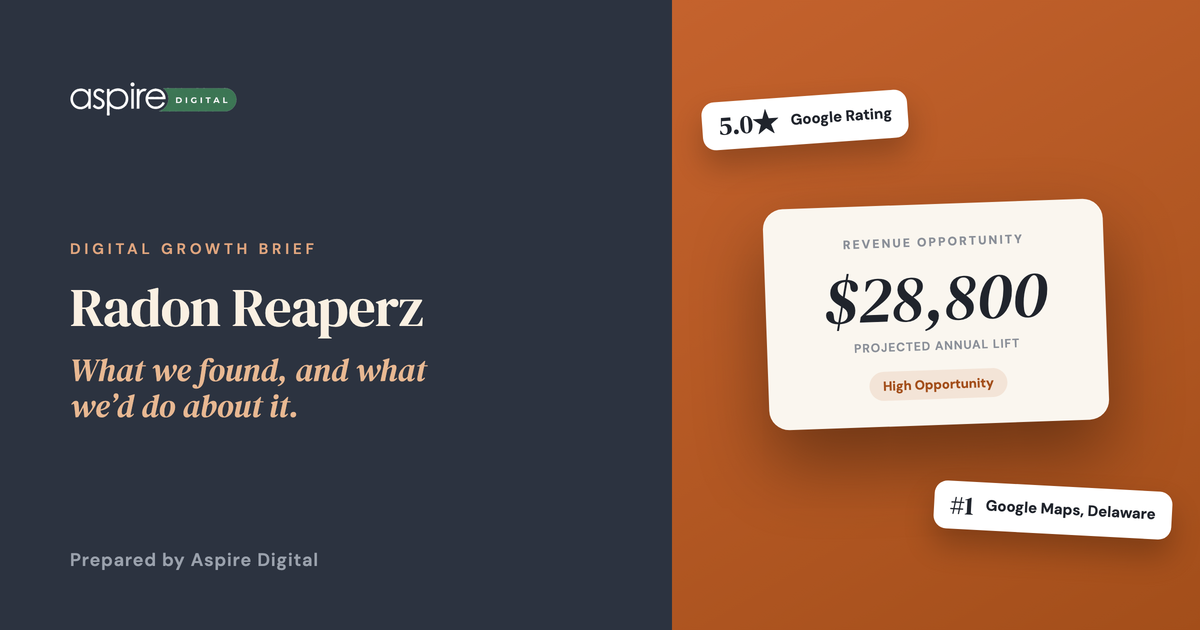
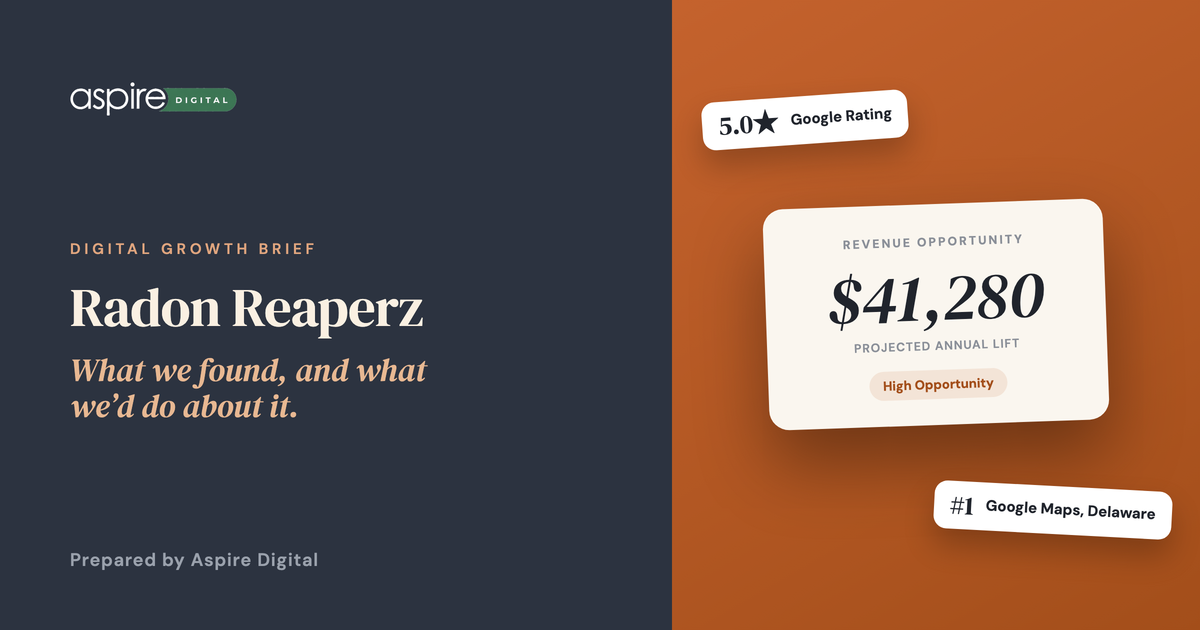
Radon Reaperz brief v2: every SEO and search figure from Strat's PROSPECT pull (CLI-535)
Hook corrected (5.0 across 367 reviews, 366 five-star), organic not in top 29,
Maps missing in 6/6 searches outside Delaware, Claude review-gap hook dropped,
Radon Systems replaces Ohio Radon Mitigation, revenue input 860 -> $41,280/yr.

Changed region(s): [[0.6783, 0.4222, 0.8942, 0.5127]]

diff --git a/radon-reaperz/welcome/index.html b/radon-reaperz/welcome/index.html
@@ -907,7 +907,7 @@ img{max-width:100%;display:block;}
       <h1 class="hero__h1">Central Ohio's best-reviewed radon team, hiding in plain sight.</h1>
     </div>
     <div class="hero__text">
-      <p class="hero__sub">You have 367 five-star Google reviews, more than any radon company we found around Columbus, yet radonreaperz.com doesn't appear in Google's top 18 results for "radon mitigation Columbus Ohio", and when we asked Claude for Radon Reaperz reviews, it couldn't find a single one.</p>
+      <p class="hero__sub">You have a 5.0 Google rating across 367 reviews, more than any radon company we found around Columbus, yet radonreaperz.com doesn't appear in Google's top 29 results for "radon mitigation Columbus Ohio", and outside Delaware you didn't show up on Google Maps in any of the six searches we ran.</p>
       <dl class="hero__meta">
         <div class="hero__meta-item"><dt>Business</dt><dd class="fill">Radon Reaperz</dd></div>
         <div class="hero__meta-item"><dt>Date</dt><dd>October 6, 2026</dd></div>
@@ -916,7 +916,7 @@ img{max-width:100%;display:block;}
     </div>
     <div class="hero__opp-card">
       <p class="hero__opp-label">Revenue Opportunity</p>
-      <p class="hero__opp-num">$28,800</p>
+      <p class="hero__opp-num">$41,280</p>
       <p class="hero__opp-denom">projected annual lift</p>
       <span class="hero__opp-badge hero__opp-badge--high">High Opportunity</span>
       <p class="hero__opp-desc">Your reputation is already built. The website just needs to start catching the Columbus searches it misses today.</p>
@@ -951,7 +951,7 @@ img{max-width:100%;display:block;}
       <div class="quick-summary__item">
         <p class="quick-summary__label">What They've Built</p>
         <ul class="quick-summary__list">
-          <li>A perfect 5.0 on Google across 367 reviews, with new ones still arriving every week.</li>
+          <li>A perfect 5.0 on Google across 367 reviews, with 16 new ones in the last 90 days.</li>
           <li>Results customers brag about: "getting our radon level down from 38 to 2.4 was great" (Ceasare V., a week ago).</li>
           <li>Work well beyond single homes: new builds, apartment complexes and corporate compliance.</li>
         </ul>
@@ -959,7 +959,7 @@ img{max-width:100%;display:block;}
       <div class="quick-summary__item">
         <p class="quick-summary__label">How They Show Up</p>
         <ul class="quick-summary__list">
-          <li>Number one in Google Maps around Delaware for "radon mitigation" and "radon testing near me".</li>
+          <li>Number one on Google Maps in Delaware for all four radon searches we ran there, and missing from the map in Columbus, Powell, Dublin, Westerville and Lewis Center.</li>
           <li>A 7-page Wix site from 2021 that loads quickly but reads like a radon textbook.</li>
           <li>No way to book online: the "Get In Touch" button opens an email, and the phone number can't be tapped.</li>
         </ul>
@@ -972,7 +972,7 @@ img{max-width:100%;display:block;}
       <div class="score-card">
         <div class="score-card__label">Google Rating</div>
         <div class="score-card__value">5.0 ★</div>
-        <div class="score-card__note">367 reviews, the most of any radon company in Columbus-area results</div>
+        <div class="score-card__note">367 reviews (366 of them five-star), the most of any radon company in Columbus-area results</div>
       </div>
       <div class="score-card">
         <div class="score-card__label">Google Maps, Delaware</div>
@@ -1018,7 +1018,7 @@ img{max-width:100%;display:block;}
       <div class="score-card">
         <div class="score-card__label">Performance</div>
         <div class="score-card__value score-card__value--word">Fair</div>
-        <div class="score-card__note">Real visitors see the page in about 2.0 seconds (Google field data). Google's mobile lab test scores 81 of 100, held back by a 2.1 MB page.</div>
+        <div class="score-card__note">Real visitors see the page in about 2.0 seconds (Google field data). Google's mobile lab test scores 78 of 100, held back by a 2.1 MB page.</div>
       </div>
       <div class="score-card">
         <div class="score-card__label">Accessibility</div>
@@ -1072,7 +1072,7 @@ img{max-width:100%;display:block;}
         <span class="win-card__ico">✓</span>
         <div class="win-card__body">
           <strong class="win-card__label">A reputation nobody nearby can match</strong>
-          <p class="win-card__desc">367 five-star Google reviews. The next closest radon company in the Columbus results we checked has 295.</p>
+          <p class="win-card__desc">A 5.0 rating across 367 Google reviews. The next closest radon company in the Columbus results we checked has 295.</p>
         </div>
       </div>
       <div class="win-card">
@@ -1086,7 +1086,7 @@ img{max-width:100%;display:block;}
         <span class="win-card__ico">✓</span>
         <div class="win-card__body">
           <strong class="win-card__label">A fast, accessible site</strong>
-          <p class="win-card__desc">Faster on phones than all three competitors we tested, and a perfect automated accessibility score.</p>
+          <p class="win-card__desc">Real visitors see your homepage in about 2 seconds, it beats Radon Be Gone and Aadvanced Aair on Google's phone speed test, and it earns a perfect automated accessibility score.</p>
         </div>
       </div>
       <div class="win-card">
@@ -1105,7 +1105,7 @@ img{max-width:100%;display:block;}
         <span class="gap-card__ico">!</span>
         <div class="gap-card__body">
           <strong class="gap-card__label">Invisible on Google outside Delaware</strong>
-          <p class="gap-card__desc">For "radon mitigation Columbus Ohio" (about 210 searches a month), your website isn't in Google's top 18 results and you're not in the map pack. Those calls go to Radon Be Gone, Radon Systems and others.</p>
+          <p class="gap-card__desc">For "radon mitigation Columbus Ohio" (about 390 searches a month, a count Google shares with "radon testing columbus ohio"), your website isn't in Google's top 29 results and you're not in the map pack. Searched from Powell, Dublin, Westerville or Lewis Center, you don't show on Google Maps either. Those calls go to Radon Be Gone, Radon Systems, Aadvanced Aair and others.</p>
         </div>
       </div>
       <div class="gap-card">
@@ -1119,7 +1119,7 @@ img{max-width:100%;display:block;}
         <span class="gap-card__ico">!</span>
         <div class="gap-card__body">
           <strong class="gap-card__label">Your best proof is off the site</strong>
-          <p class="gap-card__desc">367 glowing reviews and real before-and-after readings live on Google only. Your site doesn't show a single one, or your Ohio license number.</p>
+          <p class="gap-card__desc">367 reviews and real before-and-after readings live on Google only. Your site doesn't show a single one, or your Ohio license number.</p>
         </div>
       </div>
     </div>
@@ -1154,39 +1154,39 @@ img{max-width:100%;display:block;}
           <span class="compare-table__col-context">Columbus · #1 on Google for Columbus</span>
         </div>
         <div class="compare-table__col-head">
-          Ohio Radon Mitigation
-          <span class="compare-table__col-context">Alexandria · online test requests</span>
+          Radon Systems
+          <span class="compare-table__col-context">Columbus area · #1 in the Columbus map pack</span>
         </div>
       </div>
       <div class="compare-table__row">
         <div class="compare-table__label">Website</div>
         <div class="compare-table__cell compare-table__cell--you compare-table__cell--mid">7 pages, no testing page</div>
         <div class="compare-table__cell compare-table__cell--good">Separate testing, mitigation and service-area pages</div>
-        <div class="compare-table__cell compare-table__cell--good">Request-a-test and quote pages</div>
+        <div class="compare-table__cell compare-table__cell--good">Testing and mitigation pages, plus town pages for Powell, Dublin, Westerville, Lewis Center and more</div>
       </div>
       <div class="compare-table__row">
         <div class="compare-table__label">Online booking</div>
         <div class="compare-table__cell compare-table__cell--you compare-table__cell--low">Email link only</div>
         <div class="compare-table__cell compare-table__cell--mid">Phone and contact page</div>
-        <div class="compare-table__cell compare-table__cell--good">Online request form</div>
+        <div class="compare-table__cell compare-table__cell--good">Free-estimate form on the homepage</div>
       </div>
       <div class="compare-table__row">
         <div class="compare-table__label">Ohio license # shown</div>
         <div class="compare-table__cell compare-table__cell--you compare-table__cell--low">Not shown</div>
         <div class="compare-table__cell compare-table__cell--good">RC174 on homepage</div>
-        <div class="compare-table__cell compare-table__cell--good">RC#181 on homepage</div>
+        <div class="compare-table__cell compare-table__cell--good">RC260 on homepage</div>
       </div>
       <div class="compare-table__row">
         <div class="compare-table__label">Google reviews</div>
         <div class="compare-table__cell compare-table__cell--you compare-table__cell--good">5.0 ★ · 367</div>
         <div class="compare-table__cell compare-table__cell--mid">4.8 ★ · 237</div>
-        <div class="compare-table__cell compare-table__cell--mid">5.0 ★ · 225</div>
+        <div class="compare-table__cell compare-table__cell--mid">4.9 ★ · 295</div>
       </div>
       <div class="compare-table__row">
         <div class="compare-table__label">Phone speed score</div>
-        <div class="compare-table__cell compare-table__cell--you compare-table__cell--good">81 / 100</div>
-        <div class="compare-table__cell compare-table__cell--low">52 / 100</div>
-        <div class="compare-table__cell compare-table__cell--low">56 / 100</div>
+        <div class="compare-table__cell compare-table__cell--you compare-table__cell--mid">78 / 100</div>
+        <div class="compare-table__cell compare-table__cell--mid">72 / 100</div>
+        <div class="compare-table__cell compare-table__cell--good">100 / 100</div>
       </div>
     </div></div>
 
@@ -1195,8 +1195,8 @@ img{max-width:100%;display:block;}
         <span class="stack-split__badge">Where You Lead</span>
         <div class="stack-split__stat">
           <p class="stack-split__num">367</p>
-          <p class="stack-split__label">Google reviews, all five stars</p>
-          <p class="stack-split__note">130 more than Radon Be Gone, and still growing weekly.</p>
+          <p class="stack-split__label">Google reviews, a perfect 5.0 average</p>
+          <p class="stack-split__note">130 more than Radon Be Gone, 72 more than Radon Systems, and still growing almost every week.</p>
         </div>
         <div class="stack-split__stat">
           <p class="stack-split__num">#1</p>
@@ -1207,14 +1207,14 @@ img{max-width:100%;display:block;}
       <div class="stack-split__side stack-split__side--gap">
         <span class="stack-split__badge">The Digital Gap</span>
         <div class="stack-split__stat">
-          <p class="stack-split__num">Not in top 18 <span class="stack-split__cmp">vs #1</span></p>
+          <p class="stack-split__num">Not in top 29 <span class="stack-split__cmp">vs #1</span></p>
           <p class="stack-split__label">Google results for "radon mitigation columbus ohio"</p>
           <p class="stack-split__note">Radon Be Gone holds the top spot with a page built for exactly that search.</p>
         </div>
         <div class="stack-split__stat">
           <p class="stack-split__num">Email only <span class="stack-split__cmp">vs online forms</span></p>
           <p class="stack-split__label">Booking a radon test</p>
-          <p class="stack-split__note">Ohio Radon Mitigation gives homeowners a Request a Radon Test page and a Request a Quote page.</p>
+          <p class="stack-split__note">Radon Systems puts a free-estimate form right on its homepage.</p>
         </div>
       </div>
     </div>
@@ -1237,7 +1237,7 @@ img{max-width:100%;display:block;}
     </div>
 
     <div class="prose">
-      <p>Google's own ad data for the Columbus market shows steady, year-round demand for exactly what you do: about 1,000 searches a month for "radon mitigation system", 390 for "radon testing", and 210 each for "radon mitigation columbus ohio" and "radon testing columbus ohio". When people search from Delaware, you win the map. When they search from Columbus, Powell or Dublin, the website has to do the work, and right now it isn't built to. Google's suggestions tell the same story: people type "radon mitigation system cost columbus ohio" and "radon testing in apartments", two things you know cold but your site barely answers.</p>
+      <p>Google Ads search estimates for the Columbus market show steady, year-round demand for exactly what you do: about 390 searches a month for "radon mitigation columbus ohio" (Google counts "radon testing columbus ohio" in that same number), 720 for "radon testing", 590 for "radon mitigation system cost" and 390 for "crawl space encapsulation". When people search from Delaware, you win the map. When they search from Columbus, Powell, Dublin, Westerville or Lewis Center, you don't appear on the map at all, so the website has to do the work, and right now it isn't built to. Google's suggestions tell the same story: people type "radon mitigation system cost columbus ohio" and "radon testing in apartments", two things you know cold but your site barely answers.</p>
     </div>
 
     <h3 class="sub-head">Primary Search Terms</h3>
@@ -1260,23 +1260,23 @@ img{max-width:100%;display:block;}
       </div>
       <div class="kw-row">
         <span class="kw-row__rank">03</span>
-        <span class="kw-row__term">radon mitigation system</span>
-        <div class="kw-row__right"><span class="kw-row__vol">High demand</span><span class="kw-row__tag"><span class="tag tag--medium">Steady Revenue</span></span></div>
+        <span class="kw-row__term">radon mitigation near me</span>
+        <div class="kw-row__right"><span class="kw-row__vol">Steady</span><span class="kw-row__tag"><span class="tag tag--high">Quick Revenue</span></span></div>
       </div>
       <div class="kw-row">
         <span class="kw-row__rank">04</span>
         <span class="kw-row__term">radon testing</span>
-        <div class="kw-row__right"><span class="kw-row__vol">Steady</span><span class="kw-row__tag"><span class="tag tag--medium">Steady Revenue</span></span></div>
+        <div class="kw-row__right"><span class="kw-row__vol">High demand</span><span class="kw-row__tag"><span class="tag tag--medium">Steady Revenue</span></span></div>
       </div>
       <div class="kw-row">
         <span class="kw-row__rank">05</span>
-        <span class="kw-row__term">crawl space encapsulation</span>
-        <div class="kw-row__right"><span class="kw-row__vol">Steady</span><span class="kw-row__tag"><span class="tag tag--easy">Growth Opportunity</span></span></div>
+        <span class="kw-row__term">radon mitigation system cost</span>
+        <div class="kw-row__right"><span class="kw-row__vol">High demand</span><span class="kw-row__tag"><span class="tag tag--easy">Growth Opportunity</span></span></div>
       </div>
       <div class="kw-row">
         <span class="kw-row__rank">06</span>
-        <span class="kw-row__term">radon mitigation cost</span>
-        <div class="kw-row__right"><span class="kw-row__vol">Steady</span><span class="kw-row__tag"><span class="tag tag--easy">Growth Opportunity</span></span></div>
+        <span class="kw-row__term">crawl space encapsulation</span>
+        <div class="kw-row__right"><span class="kw-row__vol">High demand</span><span class="kw-row__tag"><span class="tag tag--easy">Growth Opportunity</span></span></div>
       </div>
     </div>
     </div>
@@ -1295,7 +1295,7 @@ img{max-width:100%;display:block;}
     <h3 class="sub-head">The Seasonal Window</h3>
     <!-- CONDITIONAL: only include if client has a clear seasonal demand pattern. 1–2 sentences max. -->
     <div class="prose">
-      <p>Radon searches climb every winter: "radon mitigation system" hit about 1,600 Columbus searches last November, more than double the 720 of this past summer. January is National Radon Action Month, so a site that's ready by November catches the busiest stretch of the year.</p>
+      <p>Radon searches climb every winter: across the US, searches for "radon mitigation" ran about 1.8 times higher from January to March than in July and August. January is National Radon Action Month, so a site that's ready by November catches the busiest stretch of the year.</p>
     </div>
 
   </div>
@@ -1342,13 +1342,13 @@ img{max-width:100%;display:block;}
       <div class="split-card">
         <div class="split-card__gap">
           <span class="split-card__gap-label">The Gap</span>
-          <h3 class="split-card__gap-title">AI can't find your reviews</h3>
+          <h3 class="split-card__gap-title">AI rarely recommends you</h3>
         </div>
         <div class="split-card__solve">
           <div class="split-card__solve-num">The Fix</div>
           <h3 class="split-card__solve-title">Put your reviews on your site</h3>
           <p class="split-card__solve-copy">We feed your Google reviews onto your own pages and label your rating, address and hours in the code AI tools read first.</p>
-          <div class="split-card__solve-outcome"><span class="split-card__solve-chip">The Win</span><span class="split-card__solve-outcome-text">When someone asks about Radon Reaperz, AI answers with your 367 five-star reviews instead of "I couldn't find any."</span></div>
+          <div class="split-card__solve-outcome"><span class="split-card__solve-chip">The Win</span><span class="split-card__solve-outcome-text">When someone asks AI who to hire, your 5.0 rating across 367 reviews is on your own site for it to find and quote, not only on Google.</span></div>
         </div>
       </div>
       <div class="split-card">
@@ -1378,7 +1378,7 @@ img{max-width:100%;display:block;}
     </div>
     </div>
 
-    <div class="callout"><strong>What we found on October 6, 2026:</strong> we asked Perplexity, Google's Gemini and Claude the same seven questions a Central Ohio homeowner might ask, like "Best radon mitigation company in Delaware, Ohio". You earned 16 of 63 possible points. Claude never mentioned you, and when asked for "Radon Reaperz reviews" it answered, "I couldn't find any reviews for Radon Reaperz." Perplexity's top pick for Delaware was Radon Be Gone, a Columbus company. ChatGPT couldn't be tested that day, so it isn't scored. This is a snapshot, not a permanent ranking, and it's very fixable.</div>
+    <div class="callout"><strong>What we found on October 6, 2026:</strong> we asked Perplexity, Google's Gemini and Claude the same seven questions a Central Ohio homeowner might ask, like "Top-rated radon mitigation near Delaware, Ohio". You earned 16 of 63 possible points. Asked about you by name, all three found your reviews. Asked who to hire, they named you in only 3 of 15 answers, while Radon Systems came up in 9. For Delaware, Claude's first pick was Radon Fix and Gemini pointed to SWAT Environmental; Perplexity listed you, but without recommending you or linking to your site. ChatGPT couldn't be tested that day, so it isn't scored. This is a snapshot, not a permanent ranking, and it's very fixable.</div>
   </div>
 </section>
 
@@ -1426,7 +1426,7 @@ img{max-width:100%;display:block;}
           </div>
           <div class="phase-item">
             <strong class="phase-item__title">A real Radon Testing page</strong>
-            <p class="phase-item__desc">Testing is half your business and about 600 Columbus-area searches a month, but it has no page of its own today. We give it one, plus clear pages for mitigation, crawlspaces and new builds.</p>
+            <p class="phase-item__desc">Testing is one of your two core services, and "radon testing" alone draws about 720 searches a month in the Columbus market, but it has no page of its own today. We give it one, plus clear pages for mitigation, crawlspaces and new builds.</p>
           </div>
           <div class="phase-item">
             <strong class="phase-item__title">Your reviews and proof, front and center</strong>
@@ -1448,7 +1448,7 @@ img{max-width:100%;display:block;}
         <div class="phase-items">
           <div class="phase-item">
             <strong class="phase-item__title">Win the winter rush, then keep climbing</strong>
-            <p class="phase-item__desc">Monthly radon answers homeowners actually ask (cost, apartments, buying a home), a recheck of where AI tools mention you, and a push before November when searches double.</p>
+            <p class="phase-item__desc">Monthly radon answers homeowners actually ask (cost, apartments, buying a home), a recheck of where AI tools mention you, and a push before November, when radon searches start their winter climb.</p>
           </div>
         </div>
       </div>
@@ -1504,7 +1504,7 @@ img{max-width:100%;display:block;}
       <div class="beyond-item">
         <span class="beyond-item__ico"><span class="material-symbols-outlined">storefront</span></span>
         <div class="beyond-item__label">Google Business Profile</div>
-        <p class="beyond-item__move">Your profile already has 57 photos and the veteran-owned badge; we'd add a booking link, list each service with plain descriptions, and post your before-and-after readings weekly.</p>
+        <p class="beyond-item__move">Your profile already has 57 photos and the veteran-owned badge; we'd reply to every review (none of your 20 newest have a reply yet), add a booking link, list each service with plain descriptions, and post your before-and-after readings weekly.</p>
         <p class="beyond-item__win"><span class="beyond-item__win-icon"><span class="material-symbols-outlined">north_east</span></span><span>Stronger signals to show you in the Columbus map pack, not just Delaware's.</span></p>
       </div>
       <div class="beyond-item">
@@ -1523,7 +1523,7 @@ img{max-width:100%;display:block;}
         <span class="beyond-item__ico"><span class="material-symbols-outlined">mail</span></span>
         <div class="beyond-item__label">Email &amp; CRM</div>
         <p class="beyond-item__move">The EPA recommends retesting every two years after mitigation, so we'd set up automatic retest reminders, plus a simple referral program for realtors and home inspectors.</p>
-        <p class="beyond-item__win"><span class="beyond-item__win-icon"><span class="material-symbols-outlined">north_east</span></span><span>Repeat testing work and steady referrals from your 367 happy customers and the people who sell homes.</span></p>
+        <p class="beyond-item__win"><span class="beyond-item__win-icon"><span class="material-symbols-outlined">north_east</span></span><span>Repeat testing work and steady referrals from the customers behind your 367 reviews and the people who sell homes.</span></p>
       </div>
     </div>
   </div>
@@ -1571,7 +1571,7 @@ img{max-width:100%;display:block;}
       <div class="funnel-b__cards">
         <div class="funnel-b__card">
           <div class="funnel-b__card-label">Monthly Searches</div>
-          <div class="funnel-b__card-val">600</div>
+          <div class="funnel-b__card-val">860</div>
           <div class="funnel-b__card-sub">People/month already looking for what you offer</div>
         </div>
         <div class="funnel-b__op">×</div>
@@ -1583,7 +1583,7 @@ img{max-width:100%;display:block;}
         <div class="funnel-b__op">=</div>
         <div class="funnel-b__card">
           <div class="funnel-b__card-label">Site Visitors</div>
-          <div class="funnel-b__card-val">48/mo</div>
+          <div class="funnel-b__card-val">69/mo</div>
           <div class="funnel-b__card-sub">Warm, local visitors ready to book</div>
         </div>
         <div class="funnel-b__op">×</div>
@@ -1601,12 +1601,12 @@ img{max-width:100%;display:block;}
       </div>
       <div class="funnel-b__result">
         <div class="funnel-b__result-item">
-          <div class="funnel-b__result-val">$2,400</div>
+          <div class="funnel-b__result-val">$3,440</div>
           <div class="funnel-b__result-label">Per Month</div>
         </div>
         <div class="funnel-b__result-div"></div>
         <div class="funnel-b__result-item">
-          <div class="funnel-b__result-val">$28,800</div>
+          <div class="funnel-b__result-val">$41,280</div>
           <div class="funnel-b__result-label">Per Year, from search alone</div>
         </div>
       </div>
@@ -1615,8 +1615,8 @@ img{max-width:100%;display:block;}
       <p class="funnel-assumptions__head">Conservative by design. Here's exactly what we assumed</p>
       <div class="funnel-assumptions__grid">
         <div class="funnel-assumptions__item">
-          <span class="funnel-assumptions__val">600</span>
-          <span class="funnel-assumptions__label">monthly Columbus-area searches for radon mitigation and testing (Google Ads data), counting only searches that name the service or the city</span>
+          <span class="funnel-assumptions__val">860</span>
+          <span class="funnel-assumptions__label">monthly Columbus-market searches from people hiring for radon mitigation or testing (Google Ads estimates), with look-alike searches counted once and DIY test kits left out</span>
         </div>
         <div class="funnel-assumptions__item">
           <span class="funnel-assumptions__val">8%</span>
@@ -1631,7 +1631,7 @@ img{max-width:100%;display:block;}
           <span class="funnel-assumptions__label">average job value, near the low end of the $800 to $2,500 range AI search tools quote for a Columbus mitigation system, to allow for lower-priced tests</span>
         </div>
       </div>
-      <p class="funnel-assumptions__footer">Google Maps traffic, referrals, and repeat clients not counted. Those are all extra on top of this. One website. Done right. This is what it pays back.</p>
+      <p class="funnel-assumptions__footer">Google Maps traffic, referrals, repeat clients and about 1,800 more broad radon searches a month not counted. Those are all extra on top of this. One website. Done right. This is what it pays back.</p>
     </div>
   </div>
 </section>
@@ -1649,7 +1649,7 @@ img{max-width:100%;display:block;}
         <p class="sec-head__sub">The gap between where you are and where you could be.</p>
       </div>
     </div>
-    <p class="gap-hook">600 people search for your services every month. Right now, most of them find someone else — because there's no site built to catch them.</p>
+    <p class="gap-hook">860 people search for your services every month. Right now, most of them find someone else — because there's no site built to catch them.</p>
     <div class="gap-metrics gap-metrics--hero">
       <div class="gap-metric">
         <div class="gap-metric__val">{METRIC_NEW_CLIENTS}</div>
@@ -1669,7 +1669,7 @@ img{max-width:100%;display:block;}
     </div>
     <div class="gap-anchor">
       <div class="gap-anchor__label">That adds up to</div>
-      <div class="gap-anchor__num">$28,800</div>
+      <div class="gap-anchor__num">$41,280</div>
       <div class="gap-anchor__period">in new annual revenue — conservative estimate</div>
     </div>
     <div class="gap-bridge">
@@ -1708,7 +1708,7 @@ img{max-width:100%;display:block;}
         </div>
         <div class="range-spectrum__col range-spectrum__col--plan">
           <span class="range-spectrum__tier">Our Plan</span>
-          <span class="range-spectrum__amt">$28,800</span>
+          <span class="range-spectrum__amt">$41,280</span>
         </div>
         <div class="range-spectrum__col range-spectrum__col--ceil">
           <span class="range-spectrum__tier">The Ceiling</span>
@@ -1736,7 +1736,7 @@ img{max-width:100%;display:block;}
     </div>
     <div class="range-callout">
       <div class="range-callout__icon"><svg viewBox="0 0 16 16" fill="none"><path d="M8 2v4l3 3" stroke="currentColor" stroke-width="2" stroke-linecap="round"/><circle cx="8" cy="8" r="6" stroke="currentColor" stroke-width="2"/></svg></div>
-      <p class="range-callout__text"><strong>The year-one plan targets $28,800.</strong> That's the conservative read — and it's still a meaningful gain. The ceiling is {REVENUE_OPTIMISTIC} when everything compounds.</p>
+      <p class="range-callout__text"><strong>The year-one plan targets $41,280.</strong> That's the conservative read — and it's still a meaningful gain. The ceiling is {REVENUE_OPTIMISTIC} when everything compounds.</p>
     </div>
   </div>
 </section>
@@ -1757,7 +1757,7 @@ img{max-width:100%;display:block;}
     </div>
     <div class="meaning-anchor">
       <div class="meaning-anchor__label">Projected Annual Revenue Lift</div>
-      <div class="meaning-anchor__num">$28,800</div>
+      <div class="meaning-anchor__num">$41,280</div>
       <div class="meaning-anchor__period">per year — conservative</div>
       <div class="meaning-anchor__note">{REVENUE_MATH_PARAGRAPH}</div>
     </div>
